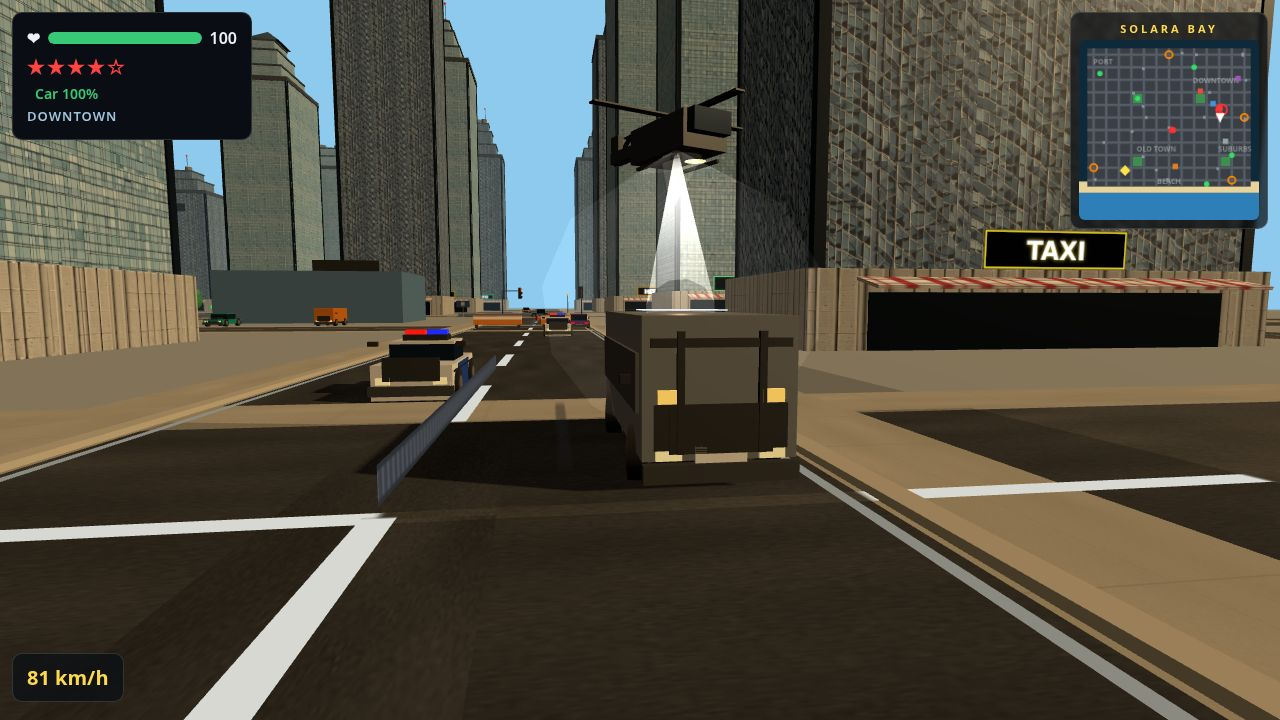
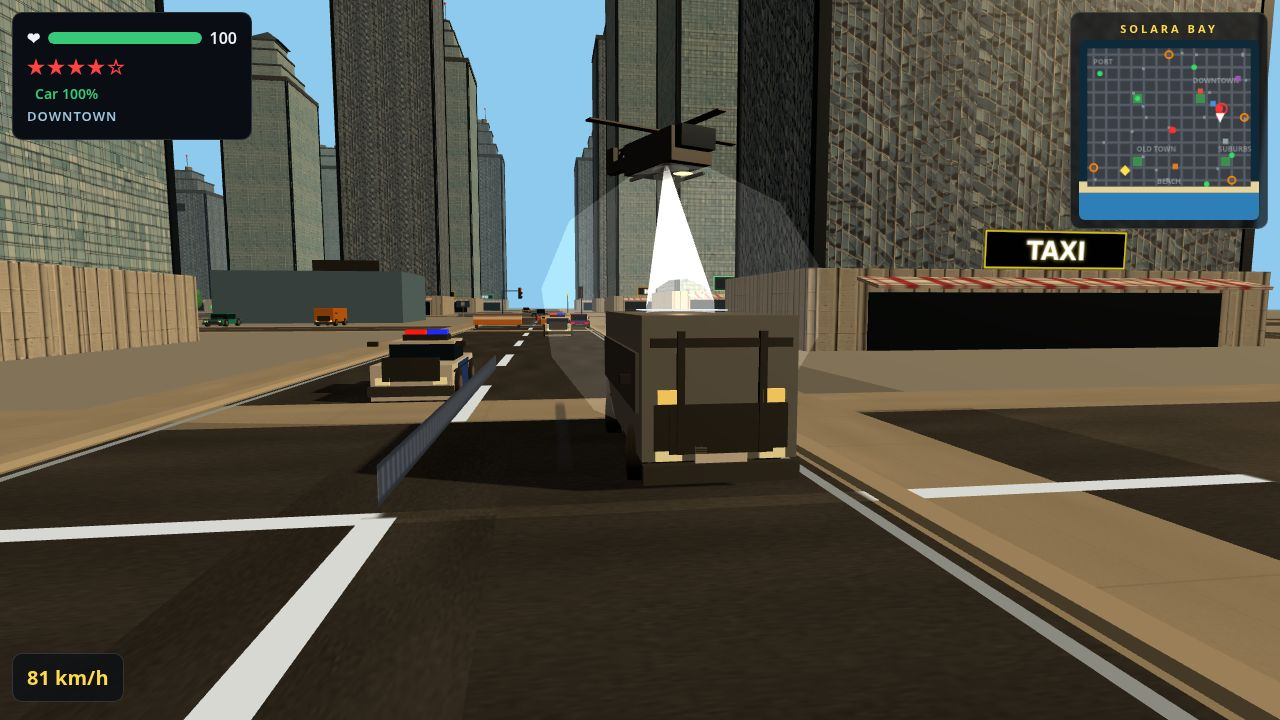
v25: over-the-shoulder gunfight + beam cone fix (round 13 one fix)

Changed region(s): [[0.4688, 0.1222, 0.5938, 0.4278]]

diff --git a/game/src/shots.js b/game/src/shots.js
@@ -19,7 +19,7 @@ let _bt;
 function beam(g,a,b,rt,rb,o){
   if(!_bt){const c=document.createElement('canvas');c.width=1;c.height=8;
   const x=c.getContext('2d'),gr=x.createLinearGradient(0,0,0,8);
-  gr.addColorStop(0,'#000');gr.addColorStop(.5,'#fff');gr.addColorStop(1,'#000');
+  gr.addColorStop(0,'#000');gr.addColorStop(.5,'#fff');gr.addColorStop(1,'#fff');
   x.fillStyle=gr;x.fillRect(0,0,1,8);_bt=new CT(c);}
   const d=new V3(a.x-b.x,a.y-b.y,a.z-b.z),L=d.length();d.normalize();
   const m=new ME(new CG(rt,rb,L,12,1,true),new MB({map:_bt,transparent:true,opacity:o,blending:AB,depthWrite:false,side:DS}));
@@ -104,12 +104,12 @@ function stageChase(game) {
   const heli = game.police.heli;
   if (heli) {
     heli.visible = true;
-    heli.position.set(vx + 8, 14, vz - 20);
+    heli.position.set(vx + 8, 14, vz - 24);
     heli.scale.setScalar(1.5);
     heli.rotation.y = 0.4;
     heli.children[0].material.color.set(0x2a2f36);
-    beam(game, new V3(vx + 8, 13.15, vz - 20), new V3(vx + 1.2, 2.4, vz + 14), .3, 2.4, .12);
-    beam(game, new V3(vx + 8, 13.15, vz - 20), new V3(vx + 1.2, 2.4, vz + 14), .15, .6, .45);
+    beam(game, new V3(vx + 8, 13.15, vz - 24), new V3(vx + 1.2, 2.4, vz + 14), .3, 2.4, .12);
+    beam(game, new V3(vx + 8, 13.15, vz - 24), new V3(vx + 1.2, 2.4, vz + 14), .15, .6, .45);
     const rp=pool(game,vx+1.2,vz+14,1,.6,2.45);if(rp)rp.scale.set(1,.6,1);
     const st = new ME(new BX(1.4, .02, .9), new MB({ color: 0xe8f0ff, emissive: 0xe8f0ff, emissiveIntensity: 1 }));
     st.position.set(vx + 1.2, 2.45, vz + 14); game.scene.add(st);
@@ -125,39 +125,38 @@ function stageGunfight(game) {
   player.ownedWeapons = ['pistol', 'rifle'];
   player.mag = 30;
   player.ammo = 60;
-  player.pos.set(-180.5, 0, 193.3);
-  player.heading = 0.67;
+  player.pos.set(-180.66, 0, 192.93);
+  player.heading = 0.286;
   player.mesh.position.copy(player.pos);
   player.mesh.rotation.y = player.heading;
   player.mesh.rotation.x = 0;
   player.mesh.scale.y = 0.85;
   const rifle = player.mesh.userData.rifle;
   rifle.position.set(0.15, 1.62, 0.75);
-  rifle.rotation.set(-0.05, -0.41, 0);
+  rifle.rotation.set(-0.12, 0.119, 0);
   rifle.scale.setScalar(1.4);
-  if (game.textures.shadow) { const s = new ME(new PG(.9,.5), SH(game.textures.shadow,.5)); s.rotation.x = -PI / 2; s.position.set(-180.5, .1, 193.3); game.scene.add(s); }
+  if (game.textures.shadow) { const s = new ME(new PG(.9,.5), SH(game.textures.shadow,.5)); s.rotation.x = -PI / 2; s.position.set(-180.66, .1, 192.93); game.scene.add(s); }
   const barrier = new ME(new BX(3, 0.65, 0.7), new MS({ map: game.textures.concrete, roughness: 0.9 }));
   barrier.position.set(-180.5, 0.325, 194.1);
   barrier.castShadow = true;
   game.scene.add(barrier);
-  game.combat.spawnGunman(-179.3, 196.1);
-  const g2 = game.combat.spawnGunman(-183, 190);
+  game.combat.spawnGunman(-179.3,196.1).mesh.scale.setScalar(1.15);
+  const g2 = game.combat.spawnGunman(-176, 198.5);
   g2.mesh.rotation.y = .6;
-  const th = game.combat.spawnThug(-185, 188);
+  const th = game.combat.spawnThug(-174.8, 198.5);
   th.mesh.rotation.x = .3;
   th.mesh.scale.y = .85;
   for (const e of game.combat.enemies) e.mesh.children[8].visible = e.mesh.children[9].visible = false;
   game.police.state.wanted = 4;
   camB(game);
-  game.cameraAngle = -0.25;
-  game.camDist = 10;
-  game.camPitch = 0.16;
-  game.camX = -0.4;
+  game.camDist = 1.6;
+  game.camPitch = -0.12;
+  game.camX = 0.9;
   for (const [cx, cz] of [[-180, 192.4], [-181.5, 191.9], [-179.5, 192.6], [-181, 193]]) game.combat.spawnCasing(new V3(cx, 0.1, cz), player.heading);
   skid(game, -180.5, 196);
   game.input.fireAction(ACTION_SHOOT);
   game.step(STEP);
-  game.combat.spawnSparks(new V3(-179.4, 0.7, 194.1), 0xffcc44, 4);
+  game.combat.spawnSparks(new V3(-179.4, 0.7, 193.75), 0xffcc44, 5);
   for (const c of game.police.state.cars) place(c, 0, 300, 0);
 }
 function stageDowntown(game) {

diff --git a/game/src/combat.js b/game/src/combat.js
@@ -71,7 +71,7 @@ export function createCombat(game) {
   }
   function spawnFlash(pos) {
     const flash = new SP(new THREE.SpriteMaterial({ map: game.textures.fireball, transparent: true, blending: AB, depthWrite: false }));
-    flash.scale.set(.5,.5,1);
+    flash.scale.set(.45,.45,1);
     addPart(flash, pos, new V3(0, 0, 0), EFFECTS.fl);
   }
   function spawnCasing(pos, heading) {
@@ -157,7 +157,7 @@ export function createCombat(game) {
     if (len < 0.1) return;
     dir.normalize();
     for (let i = 0; i < 3; i++) {
-      const tracer = new ME(new BX(0.05, 0.05, len / 4), new MB({ color, transparent: true, opacity: 0.75 }));
+      const tracer = new ME(new BX(0.05, 0.05, len / 4), new MB({ color, transparent: true, opacity: 0.7 }));
       tracer.position.copy(from).addScaledVector(dir, len * (i + 0.5) / 3);
       tracer.lookAt(to);
       game.scene.add(tracer);
@@ -368,7 +368,7 @@ export function createCombat(game) {
     for (let i = tracers.length - 1; i >= 0; i -= 1) {
       const tracer = tracers[i];
       tracer.life -= dt;
-      tracer.mesh.material.opacity = Math.max(0, Math.min(1, tracer.life / 0.16)) * 0.75;
+      tracer.mesh.material.opacity = Math.max(0, Math.min(1, tracer.life / 0.16)) * 0.7;
       if (tracer.life <= 0) {
         game.scene.remove(tracer.mesh);
         tracers.splice(i, 1);

diff --git a/shot21.py b/shot21.py
@@ -1,0 +1,22 @@
+import sys, asyncio
+from playwright.async_api import async_playwright
+
+async def main():
+    shots = sys.argv[1].split(',') if len(sys.argv) > 1 else ['gunfight']
+    outdir = sys.argv[2] if len(sys.argv) > 2 else '/tmp/shots21'
+    async with async_playwright() as p:
+        b = await p.chromium.launch(args=['--use-gl=swiftshader', '--enable-unsafe-swiftshader', '--no-sandbox'])
+        pg = await b.new_page(viewport={'width': 1280, 'height': 720})
+        for s in shots:
+            await pg.goto(f'http://localhost:8080/?shot={s}&seed=7', wait_until='load')
+            try:
+                await pg.wait_for_function('window.__shotReady === true', timeout=60000)
+            except Exception as e:
+                print(s, 'NOT READY', e)
+                continue
+            await pg.wait_for_timeout(300)
+            await pg.screenshot(path=f'{outdir}/{s}.jpg', type='jpeg', quality=80)
+            print(s, 'ok')
+        await b.close()
+
+asyncio.run(main())
